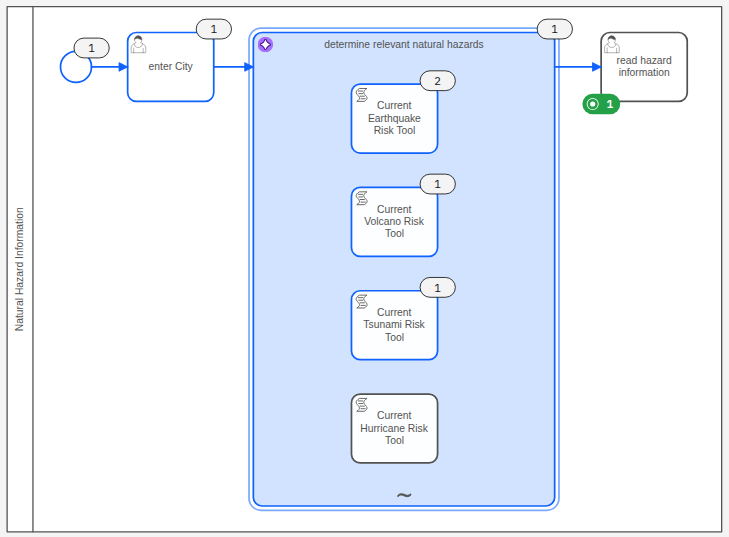
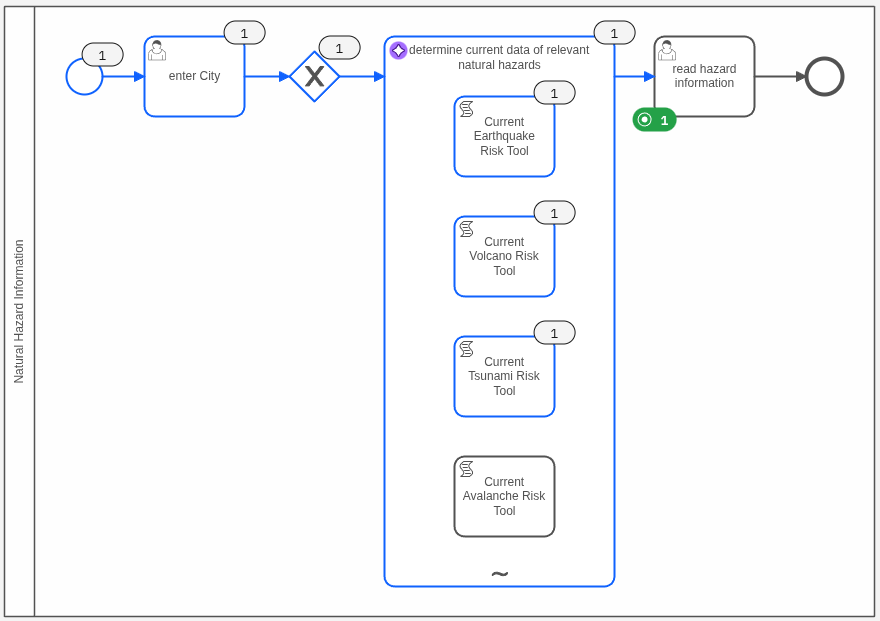
feat: update screenshots, improve sudo commands

diff --git a/README.md b/README.md
@@ -65,8 +65,7 @@ Scripts to install tools for NVIDIA GPU Acceleration, K8s and Helm.
 ### Bootstrap
 
 ```bash
-chmod +x ./sovereign-foundation/install.sh
-./sovereign-foundation/install.sh
+chmod +x ./sovereign-foundation/install.sh && ./sovereign-foundation/install.sh
 ```
 <details>
 <summary>Documentation of Script Steps</summary>
@@ -87,15 +86,14 @@ chmod +x ./sovereign-foundation/install.sh
 * The installation configures Docker to run without `sudo` for the current user.
 * Run check script:
 ```bash
-chmod +x ./sovereign-foundation/check.sh
-./sovereign-foundation/check.sh
+chmod +x ./sovereign-foundation/check.sh && ./sovereign-foundation/check.sh
 ```
 * Docker and NVIDIA Toolkit will be updated via apt Package Manager.
 * K3s starts automatically on reboot via a systemd service.
 * To perform a full reset and reinstall: run the uninstall script below, reboot the device, and execute the bootstrap script again.
 ```bash
-chmod +x ./sovereign-foundation/uninstall.sh
-./sovereign-foundation/uninstall.sh # **⚠ deletes all content under /var/lib/docker ⚠**
+chmod +x ./sovereign-foundation/uninstall.sh && ./sovereign-foundation/uninstall.sh 
+# **⚠ deletes all content under /var/lib/docker ⚠**
 ```
 
 ---
@@ -108,8 +106,7 @@ chmod +x ./sovereign-foundation/uninstall.sh
 ### Bootstrap
 
 ```bash
-chmod +x ./cluster-provisioning/bootstrap.sh
-./cluster-provisioning/bootstrap.sh
+chmod +x ./cluster-provisioning/bootstrap.sh && ./cluster-provisioning/bootstrap.sh
 ```
 <details>
 <summary>Documentation of Script Steps</summary>
@@ -132,8 +129,7 @@ chmod +x ./cluster-provisioning/bootstrap.sh
 * Because all dependencies are provisioned locally, the system requires no external communication with Helm repositories. 
 * To update the configuration, modify the values.yaml file(s), then apply the uninstall script below and re-bootstrap the cluster:
 ```bash
-chmod +x ./cluster-provisioning/uninstall.sh
-./cluster-provisioning/uninstall.sh
+chmod +x ./cluster-provisioning/uninstall.sh && ./cluster-provisioning/uninstall.sh
 ```
 
 ---
@@ -145,10 +141,10 @@ chmod +x ./cluster-provisioning/uninstall.sh
 ```bash
 cd agentic-orchestration
 mvn clean package
-docker build -t agentic-orchestration:1.0.0 . # set a new version number for each build.
-docker save agentic-orchestration:1.0.0 -o agentic-orchestration-1.0.0.tar
+sudo docker build -t agentic-orchestration:1.0.0 . # set a new version number for each build.
+sudo docker save agentic-orchestration:1.0.0 -o agentic-orchestration-1.0.0.tar
 sudo k3s ctr images import agentic-orchestration-1.0.0.tar
-kubectl apply -f agentic-orchestration.yaml # please change version number in file before
+sudo kubectl apply -f agentic-orchestration.yaml # please change version number in file before
 ```
 
 ### Operating
